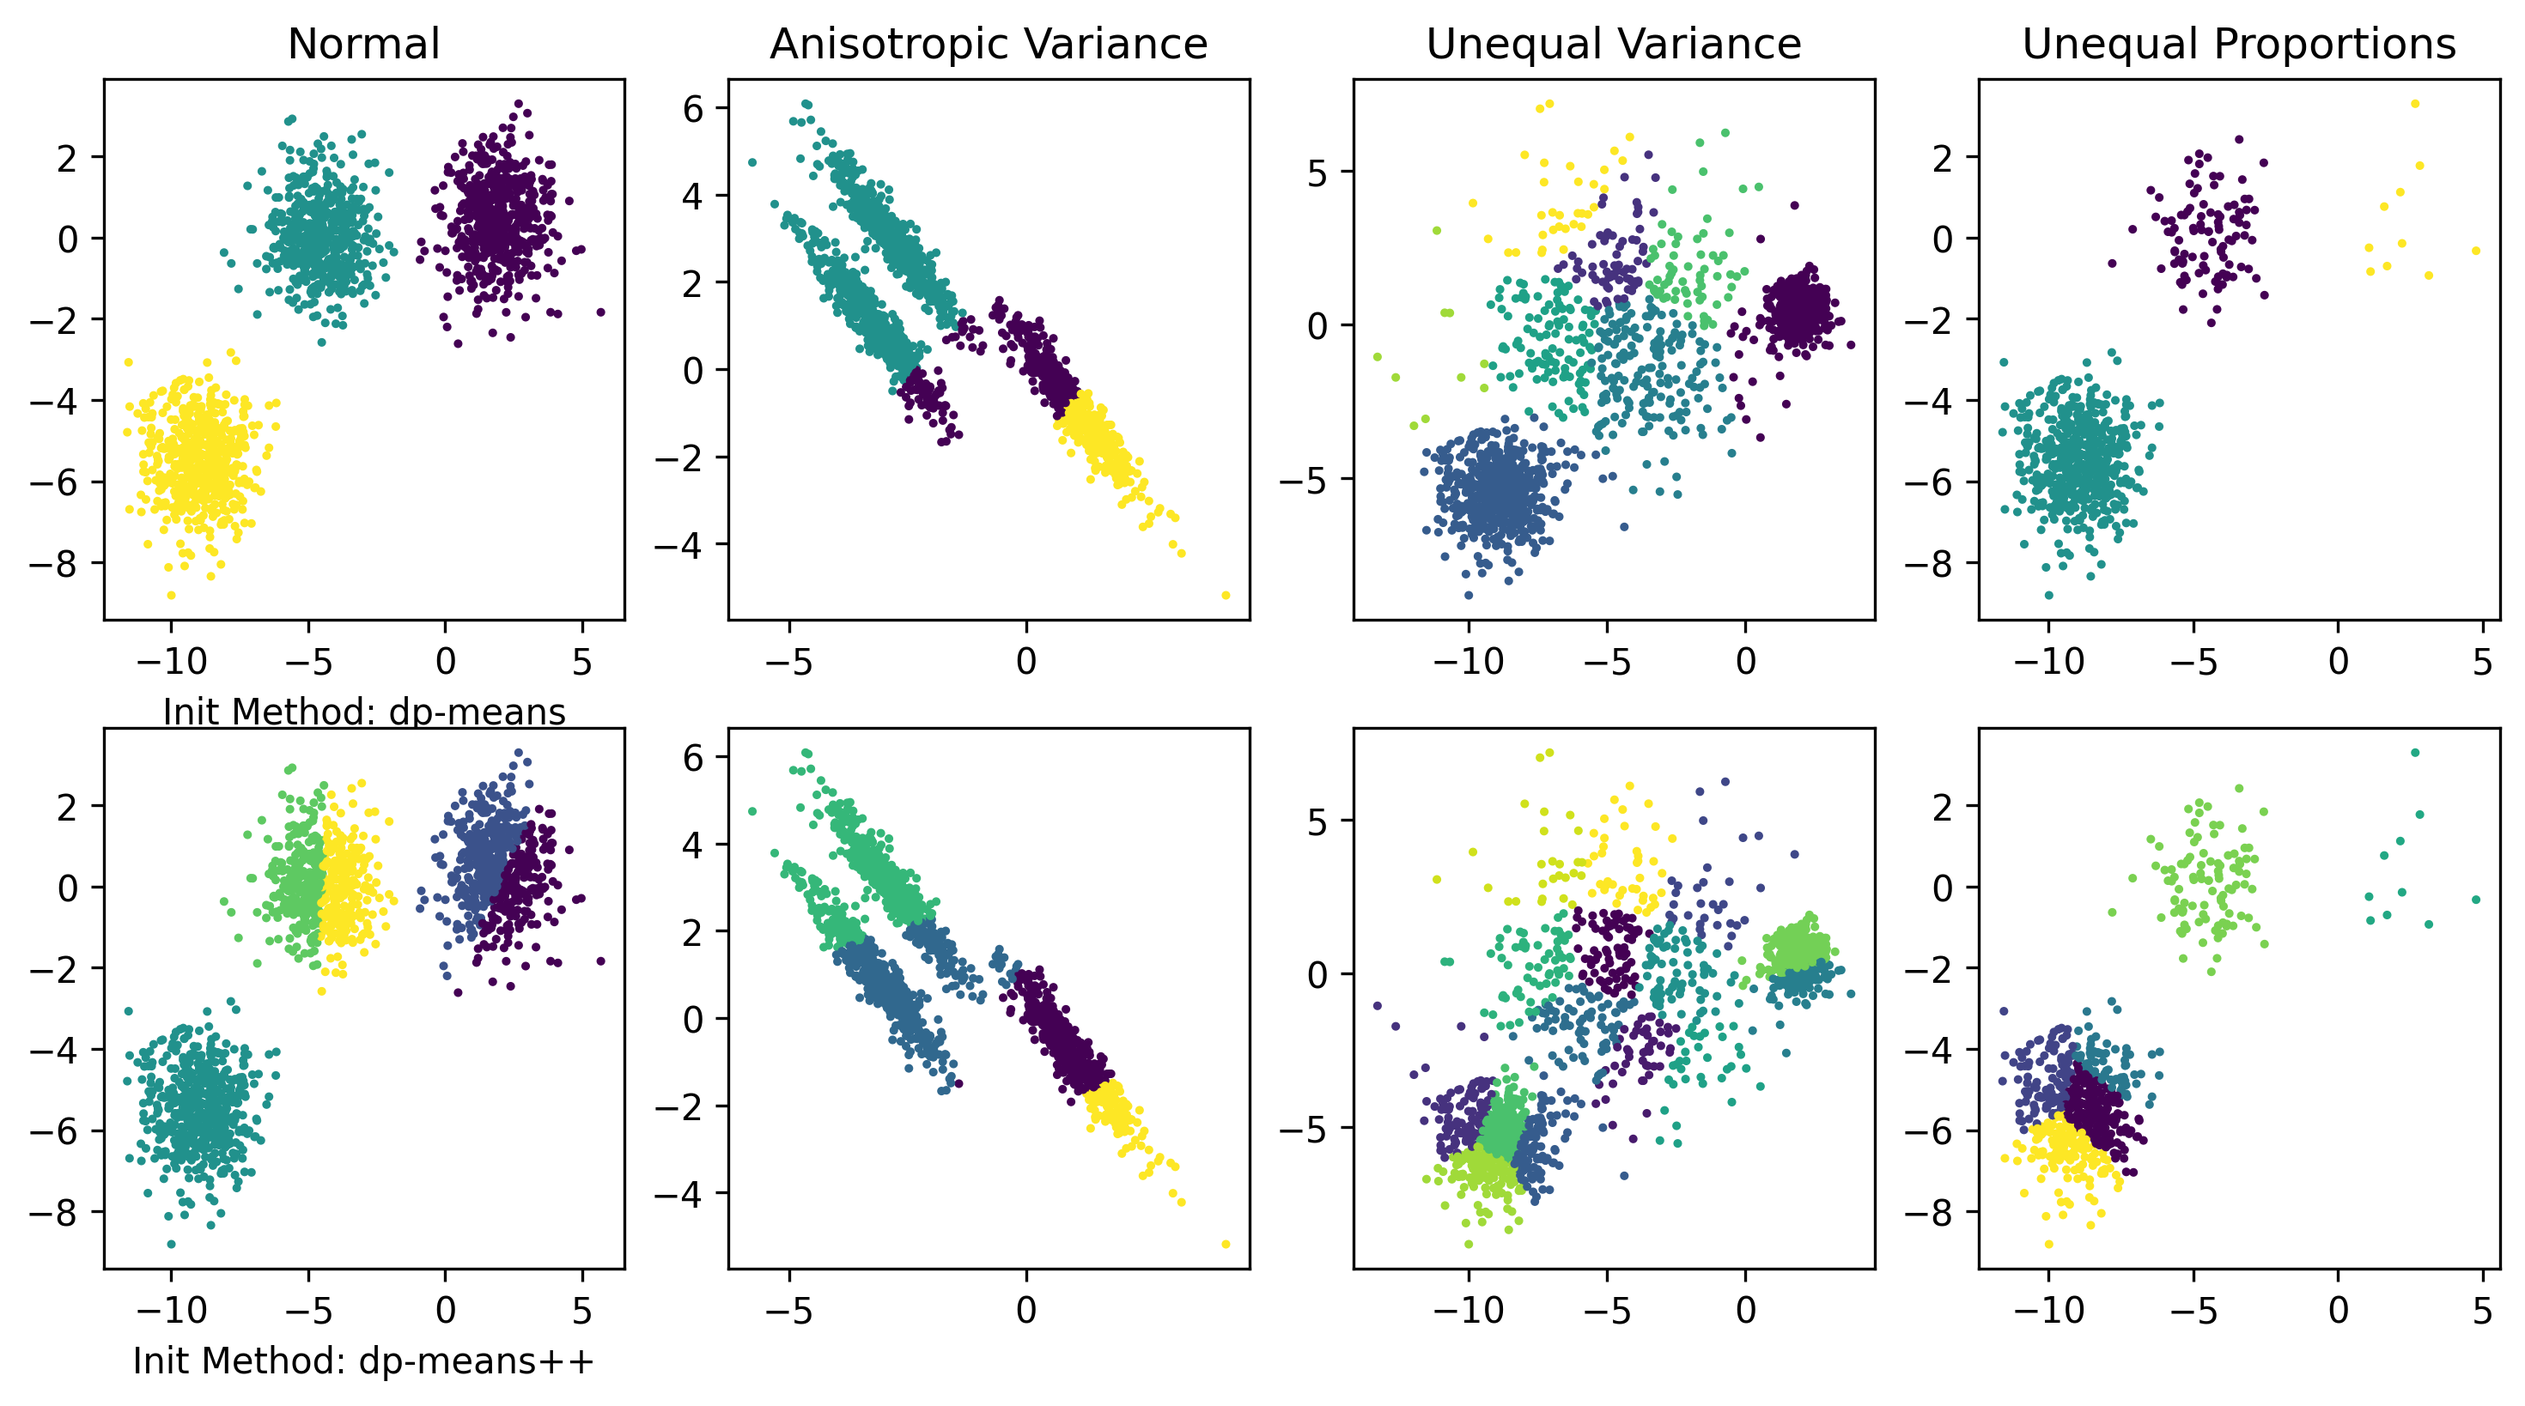
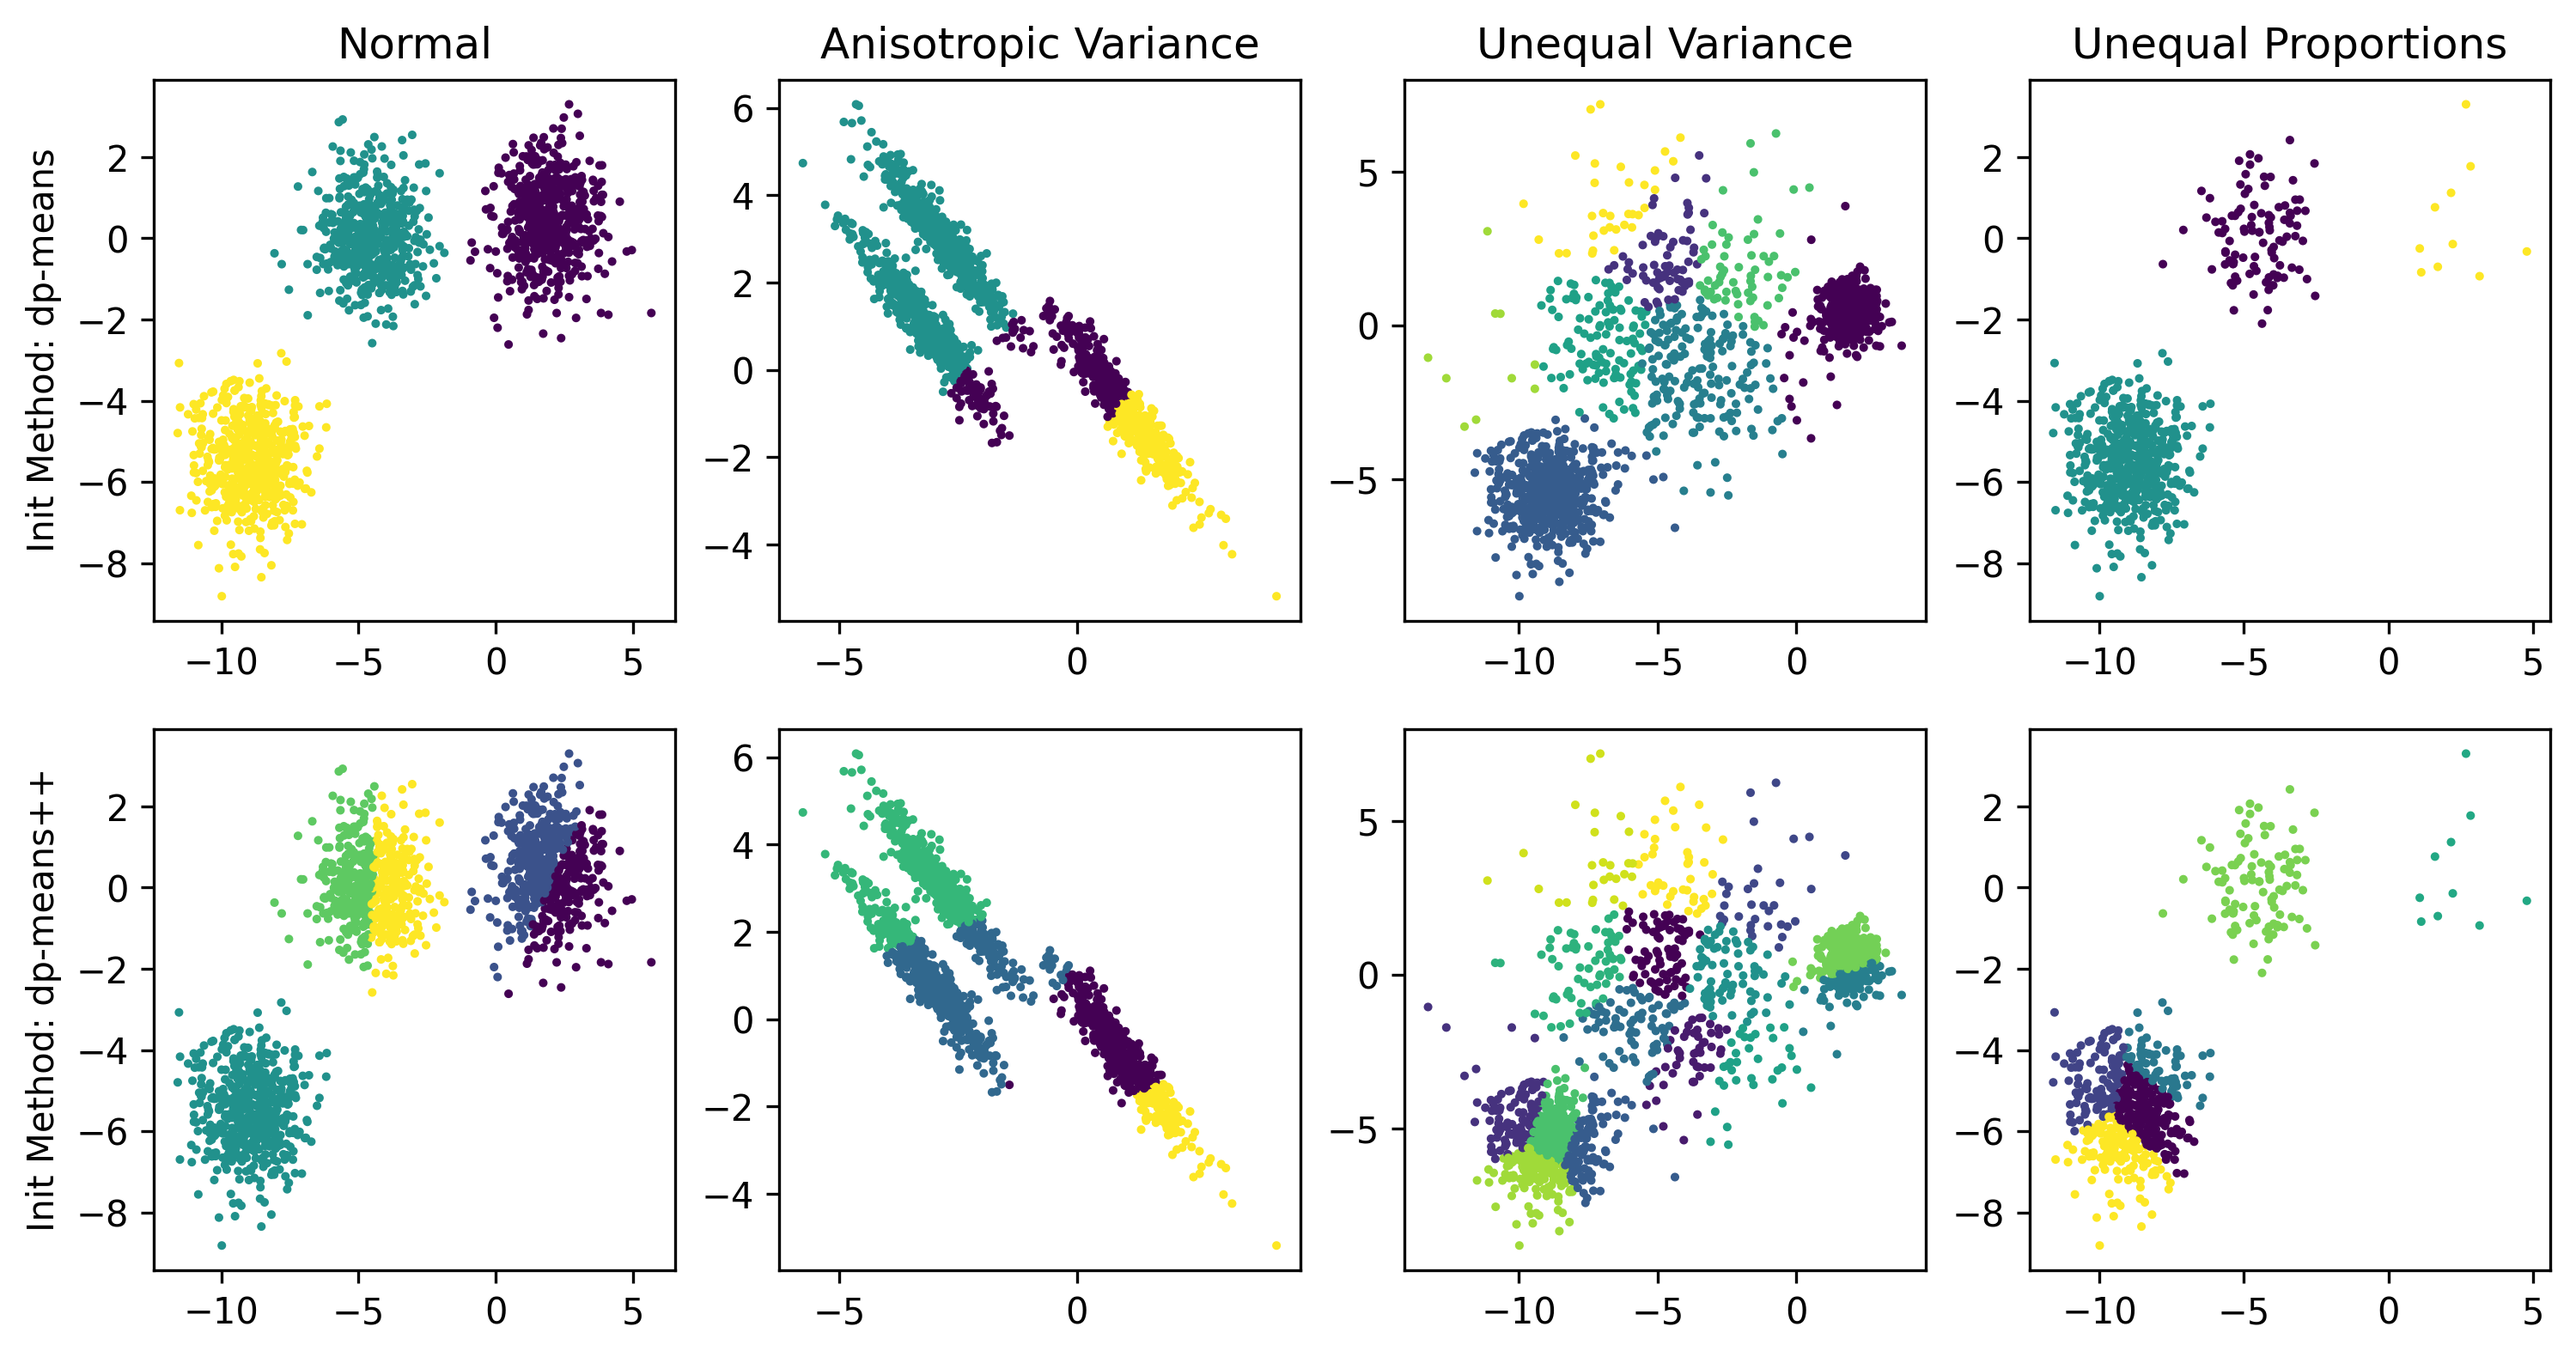
Added wandb API for pulling results.

diff --git a/01_mixture_of_gaussians/plot_sweep.py b/01_mixture_of_gaussians/plot_sweep.py
@@ -1,46 +1,19 @@
 import numpy as np
 import os
 import pandas as pd
-# import wandb
 
+from src.helpers.run import download_wandb_project_runs_results
 from src.plot import plot_all
 
 exp_dir = '01_mixture_of_gaussians'
 results_dir = os.path.join(exp_dir, 'results')
+wandb_sweep_path = "rylan/dp-means++-mixture-of-gaussians"
 sweep_results_df_path = os.path.join(results_dir, 'sweep_results.csv')
 
-# api = wandb.Api()
-#
-# # Project is specified by <entity/project-name>
-# runs = api.runs("rylan/dp-means++-mixture-of-gaussians")
-#
-# summary_list, config_list, name_list = [], [], []
-# for run in runs:
-#     # .summary contains the output keys/values for metrics like accuracy.
-#     #  We call ._json_dict to omit large files
-#     summary_list.append(run.summary._json_dict)
-#
-#     # .config contains the hyperparameters.
-#     #  We remove special values that start with _.
-#     config_list.append(
-#         {k: v for k, v in run.config.items()
-#          if not k.startswith('_')})
-#
-#     # .name is the human-readable name of the run.
-#     name_list.append(run.name)
-#
-# runs_df = pd.DataFrame({
-#     "summary": summary_list,
-#     "config": config_list,
-#     "name": name_list
-# })
-#
-# runs_df.to_csv(sweep_results_df_path)
+sweep_results_df = download_wandb_project_runs_results(
+    wandb_sweep_path=wandb_sweep_path)
 
-sweep_results_df = pd.read_csv(sweep_results_df_path, index_col=None)
-
-# Keep only finished runs
-sweep_results_df = sweep_results_df[sweep_results_df['State'] == 'finished']
+sweep_results_df.to_csv(sweep_results_df_path, index=False)
 
 # Compute rho / sigma aka SNR
 sweep_results_df['cov_prefactor_ratio'] = sweep_results_df['centroids_prior_cov_prefactor'] \

diff --git a/src/helpers/run.py b/src/helpers/run.py
@@ -1,0 +1,35 @@
+import pandas as pd
+import wandb
+
+
+def download_wandb_project_runs_results(wandb_sweep_path: str) -> pd.DataFrame:
+
+    # Download sweep results
+    api = wandb.Api()
+
+    # Project is specified by <entity/project-name>
+    runs = api.runs(path=wandb_sweep_path)
+
+    sweep_results_list = []
+    for run in runs:
+        # .summary contains the output keys/values for metrics like accuracy.
+        #  We call ._json_dict to omit large files
+        summary = run.summary._json_dict
+
+        # .config contains the hyperparameters.
+        #  We remove special values that start with _.
+        summary.update(
+            {k: v for k, v in run.config.items()
+             if not k.startswith('_')})
+
+        summary.update({'State': run.state})
+        # .name is the human-readable name of the run.
+        summary.update({'run_name': run.name})
+        sweep_results_list.append(summary)
+
+    sweep_results_df = pd.DataFrame(sweep_results_list)
+
+    # Keep only finished runs
+    sweep_results_df = sweep_results_df[sweep_results_df['State'] == 'finished']
+
+    return sweep_results_df

diff --git a/src/plot.py b/src/plot.py
@@ -254,7 +254,7 @@ def plot_scores_by_cov_prefactor_ratio_colored_by_initialization(
         plt.xscale('log')
         plt.xlabel(r'$\rho / \sigma$')
         plt.legend()
-        plt.ylim(0., 1.05)
+        # plt.ylim(0., 1.05)
         plt.tight_layout()
         plt.savefig(os.path.join(plot_dir,
                                  f'comparison_score={score_column}_by_cov_prefactor_ratio.png'),
@@ -279,7 +279,7 @@ def plot_scores_by_max_distance_colored_by_initialization(
         plt.xscale('log')
         plt.xlabel(r'$\lambda$')
         plt.legend()
-        plt.ylim(0., 1.05)
+        # plt.ylim(0., 1.05)
         plt.tight_layout()
         plt.savefig(os.path.join(plot_dir,
                                  f'comparison_score={score_column}_by_max_dist.png'),

diff --git a/02_sklearn_examples/assumptions.py b/02_sklearn_examples/assumptions.py
@@ -14,6 +14,7 @@ from sklearn.datasets import make_blobs
 
 from src.inference.dpmeans_quick import DPMeans
 
+np.random.seed(0)
 exp_dir = '02_sklearn_examples'
 results_dir = os.path.join(exp_dir, 'results')
 os.makedirs(results_dir, exist_ok=True)
@@ -58,7 +59,7 @@ for col_idx, (dataset_name, X) in enumerate(datasets):
 
         ax = axes[row_idx, col_idx]
         if col_idx == 0:
-            ax.set_ylabel(f'Init Method: {init_method}')
+            ax.set_ylabel(f'{init_method}')
         if row_idx == 0:
             ax.set_title(dataset_name)
 

diff --git a/src/inference/dpmeans_quick.py b/src/inference/dpmeans_quick.py
@@ -19,6 +19,7 @@ def _init_centroids_dpmeans(X: np.ndarray,
                             x_squared_norms: np.ndarray,
                             random_state: np.random.RandomState,
                             **kwargs):
+
     n_samples, n_features = X.shape
 
     # We can have (up to) as many clusters as samples
